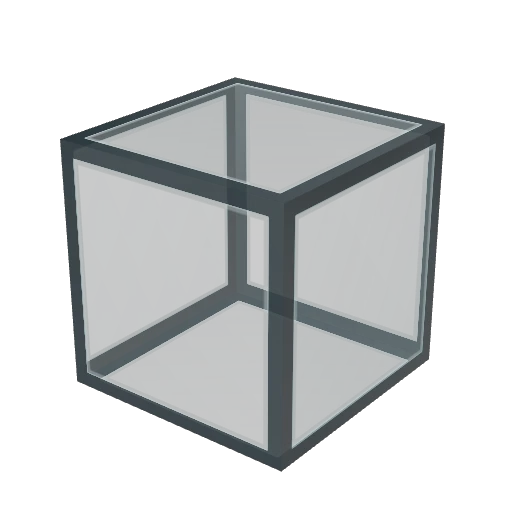
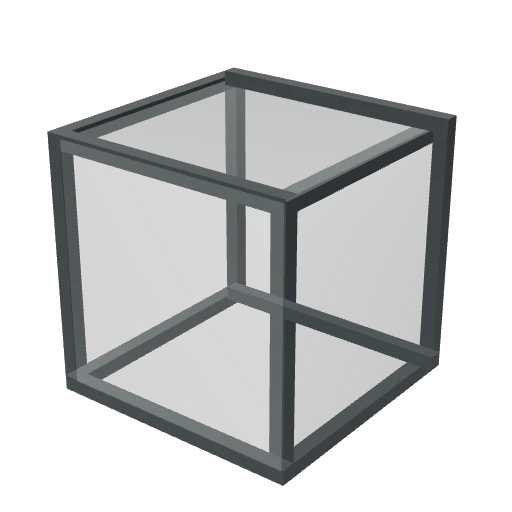
Frameless glass block sprite; S5 glass render budgets in the spec; rebuild full GDD
Claude-Session: https://claude.ai/code/session_01T7NuzNnUjUNGvk6BbDkpxj

Changed region(s): [[0.0938, 0.125, 0.9062, 0.9688]]

diff --git a/docs/spec/07_TECHNICAL.md b/docs/spec/07_TECHNICAL.md
@@ -126,11 +126,12 @@ Low: DPR≤1, дальность 80 м, один directional light без тен
 - **Тень солнца** следует собственному направлению света (обновляется после поворота на 0,25°) и собственному центру (сдвиг после 3 м пути, округление до текселя), а также перерисовывается явно при появлении станции и движении двери шлюза; при ходьбе это примерно одна перерисовка на 3 м вместо каждого кадра. `normalBias` ≈ один тексель (8,2 см Standard, 5,9 см High). Внешние 10% охвата тени плавно гасят её — без резкой границы на ±42/60 м и без дополнительных выборок. Запечённая видимость солнца перепекается после поворота света на 0,05 рад.
 - **Частицы**: мёртвый спрайт получает размер 0, размер точки считается в пикселях кадрового буфера и ограничен 20% его высоты, в GPU выгружается только изменённый диапазон, рисуется только живой. Пылинки ветра — один instanced draw call без покадровой выгрузки. Сколы освещены уровнем дня/ночи и не светятся ночью.
 - **Средний уровень рельефа.** Между мелкими блоками и радиусом качества стоит уровень 2 м (1120 треугольников на чанк 40 м вместо 3840). Его вершины лежат на той же сетке высот столкновений, нормали и цвет в общих точках совпадают с уровнем 1 м, блок меняет уровень только целиком (до готовности остаётся прежний) и после постройки четырёх чанков сливается в один меш — один draw call вместо четырёх; щели закрыты юбками. Высоты игры, тени и следы не зависят от выбранного уровня.
-- **Прочее**: декоративная галька рисуется только в 70 м (список обновляется каждые 8 м, на Low скрыта); кнопки HUD в игре без `backdrop-filter` поверх canvas; внешние горы разбиты на 8 секторов (отсекаются за камерой) и не принимают карту тени, лежащую вне их охвата.
+- **Прочее**: декоративная галька рисуется только в 70 м (список обновляется каждые 8 м, на Low скрыта); на Low разбросанные камни (группы по 40 м) рисуются только в 120 м от камеры (ближайшая точка ограничивающей сферы группы, проверка каждые 8 м пути; S5), скалы, залежи и рельеф — всегда; кнопки HUD в игре без `backdrop-filter` поверх canvas; внешние горы разбиты на 8 секторов (отсекаются за камерой) и не принимают карту тени, лежащую вне их охвата.
 - **Карта (S4, D34).** Рельеф карты — растр 560×560 (1 м на пиксель), строится один раз кусками по 8 мс после подготовки сцены и при открытой карте; рисуется одним `drawImage` под преобразованием вида. Холст карты масштабируется по `devicePixelRatio` (не больше 2). Наложение перерисовывается при взаимодействии и примерно 4 раза в секунду; закрытая картой 3D-сцена в это время рисуется 4 раза в секунду (`sceneInterval` 250 мс). Время построения и кадра карты на телефоне не измерено.
 - **Стоимость грунта.** Шейдер рельефа делает 5 выборок текстур вместо 2 (боковая проекция на крутых склонах, две выборки макрошума); время GPU на телефоне не измерено.
 - **Добыча (S4, п. 7).** Не больше одного дополнительного draw call: одна оболочка трещин (прозрачная копия самой крупной сетки прицельной залежи с той же геометрией и диапазоном отрисовки; узор — ячейки Вороного по мировым координатам, UV у объединённых моделей нулевые). Куски осыпи исчезают диапазоном отрисовки объединённой сетки, без новых объектов; твёрдые куски и искры — те же пулы частиц и лимиты. Один луч `Raycaster` на удар (около двух в секунду). Анимация есть только у залежи под ударом или в обрушении и идёт по времени сцены (стоит на паузе); тень перерисовывается в начале и в конце обрушения. Пулы частиц, оболочка трещин и перчатка компилируются при загрузке (`compileAsync`), без компиляции на первом ударе.
-- **Проверка.** `verify:performance` требует на Low ≤150 draw calls и ≤250k треугольников в контрольных видах (замер после того, как рельеф вокруг достроен: число вызовов не зависит от скорости машины), пул point light 2/4, ≤512 частиц вместе с пылинками, следы после ходьбы и их исчезновение за 30 с, пылинки во всех качествах и их отсутствие при снижении движения, не больше ⌈путь/3 м⌉+2 перерисовок тени при ходьбе и идентичные пиксели паузы с частицами, следами, пылинками и трещинами; на Low при добыче (с оболочкой трещин) тоже ≤150 draw calls, блок железа — ровно 9 ударов с отделением последним, точка удара — по лучу; при снижении движения взмах не больше 35% и без отклика модели. Кадровые частоты из SwiftShader не являются FPS телефона.
+- **Стеклянные помещения (S5, D35).** Всё стекло мира — грани, кромка и «юбка» — один меш одного материала с атрибутом `trim` (перестраивается только после правки, из граней изменённых чанков 16³): один draw call вместо двух на каждый чанк (прежнее двустороннее прозрачное стекло рисовалось двумя проходами). Стекло `FrontSide`, без записи глубины, не отбрасывает тень и не попадает в карту теней; его программа и программы модели шлюза (прозрачное стекло станций рисуется в два прохода) компилируются при загрузке, поэтому постройка помещения и вход в него шейдеров не компилируют. Остальная цена помещения — модель шлюза (9 вызовов на шлюз: четыре материала корпуса, две шторки по два меша, одна пара ламп) и одна пластина-лампа на все помещения. Замер в SwiftShader для комнаты 3×3×3 со шлюзом изнутри на площадке: прибавка не больше 15 вызовов в каждом из четырёх направлений по сравнению с тем же видом без стекла, на Low не больше 150. Разница 120 → 244 вызовов на Galaxy S24 сравнивает разные места и виды (равнина у Z 103 и база у капсулы у Z 39), а не помещение с тем же видом без него: в свежем мире на High эти два места без построек дают 113–187 и 108–171 вызовов в четырёх направлениях, а две комнаты на четырёх чанках с двумя шлюзами добавляют 3–24; остальное — станции и линии базы Малика (сама она не воспроизведена). FPS телефона после S5 не измерен.
+- **Проверка.** `verify:performance` требует на Low ≤150 draw calls и ≤250k треугольников в контрольных видах (замер после того, как рельеф вокруг достроен: число вызовов не зависит от скорости машины), пул point light 2/4, ≤512 частиц вместе с пылинками, следы после ходьбы и их исчезновение за 30 с, пылинки во всех качествах и их отсутствие при снижении движения, не больше ⌈путь/3 м⌉+2 перерисовок тени при ходьбе и идентичные пиксели паузы с частицами, следами, пылинками и трещинами; на Low при добыче (с оболочкой трещин) тоже ≤150 draw calls, блок железа — ровно 9 ударов с отделением последним, точка удара — по лучу; при снижении движения взмах не больше 35% и без отклика модели; в комнате 3×3×3 со шлюзом (Low и High, четыре направления) стекло добавляет не больше 15 вызовов к тому же виду без него, это один меш без тени, число программ не растёт, на Low ≤150. Кадровые частоты из SwiftShader не являются FPS телефона.
 
 ### Диагностика S2.7
 

diff --git a/docs/art/ui/UI_SPRITES.md b/docs/art/ui/UI_SPRITES.md
@@ -30,4 +30,4 @@
 
 ## Стеклоблок и шлюз S4 — 15 октября 2026
 
-Спрайты `window` («Стеклоблок») и `airlock` («Шлюз») не генерировались изображением, а отрисованы из игровых 3D-моделей: `tools/render_room_sprites.mjs` открывает `tools/sprite-render.html` в Playwright (Chromium, программный WebGL), строит блок теми же `chunkFaces` и `glassMaterial` из `src/glass.ts`, а шлюз — `buildDoor` из `src/stationModels.ts`, рендерит на прозрачном фоне и сохраняет `canvas.toDataURL('image/webp')` как RGBA 512×512. Запись в [манифесте](CRAFT_SPRITE_MANIFEST.json) — раздел `rendered`, режим «rendered from in-game model», с размерами и SHA-256. Оба спрайта зарегистрированы в общем `ITEM_ART`; `verify:art` и `verify:crafting` проверяют их загрузку и прозрачные поля. Прежний спрайт купола сохранён для служебного предмета старых сохранений.
+Спрайты `window` («Стеклоблок») и `airlock` («Шлюз») не генерировались изображением, а отрисованы из игровых 3D-моделей: `tools/render_room_sprites.mjs` открывает `tools/sprite-render.html` в Playwright (Chromium, программный WebGL), строит блок теми же `chunkFaces` и `glassMaterial` из `src/glass.ts`, а шлюз — `buildDoor` из `src/stationModels.ts`, рендерит на прозрачном фоне и сохраняет `canvas.toDataURL('image/webp')` как RGBA 512×512. Запись в [манифесте](CRAFT_SPRITE_MANIFEST.json) — раздел `rendered`, режим «rendered from in-game model», с размерами и SHA-256. С S5 (D35) стеклоблок без рамки: шесть прозрачных граней и тонкая тёмная кромка по 12 рёбрам одиночного блока, как в игре; один спрайт перерисовывается командой `node tools/render_room_sprites.mjs window`, запись второго в манифесте не меняется. Оба спрайта зарегистрированы в общем `ITEM_ART`; `verify:art` и `verify:crafting` проверяют их загрузку и прозрачные поля. Прежний спрайт купола сохранён для служебного предмета старых сохранений.
